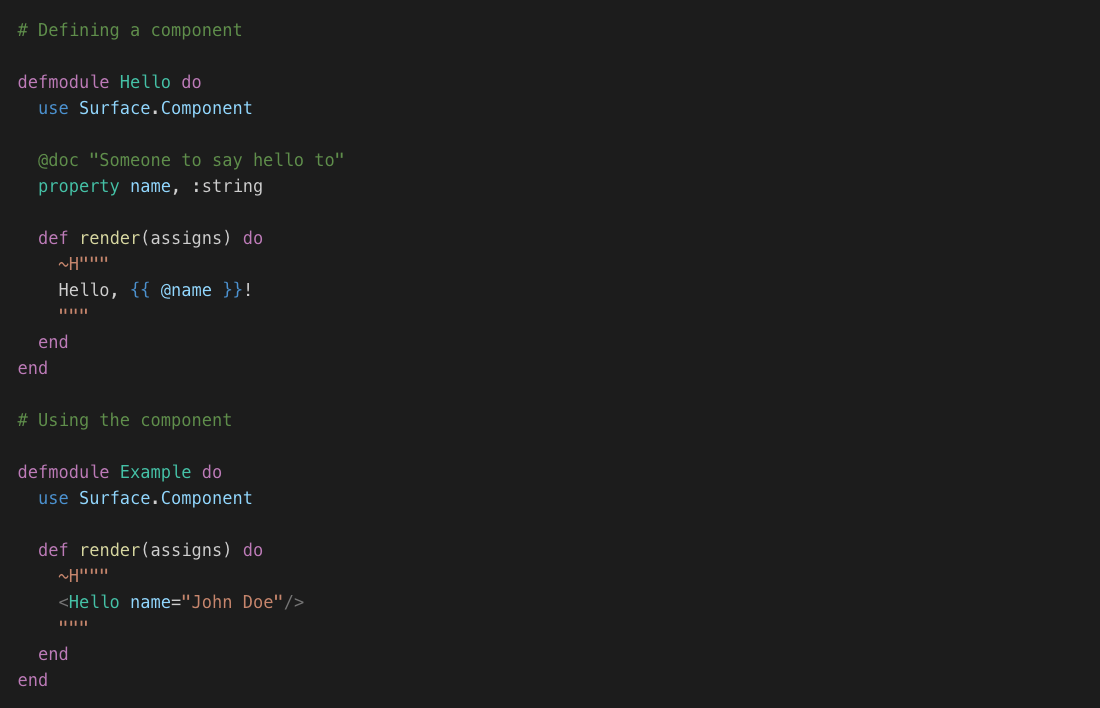
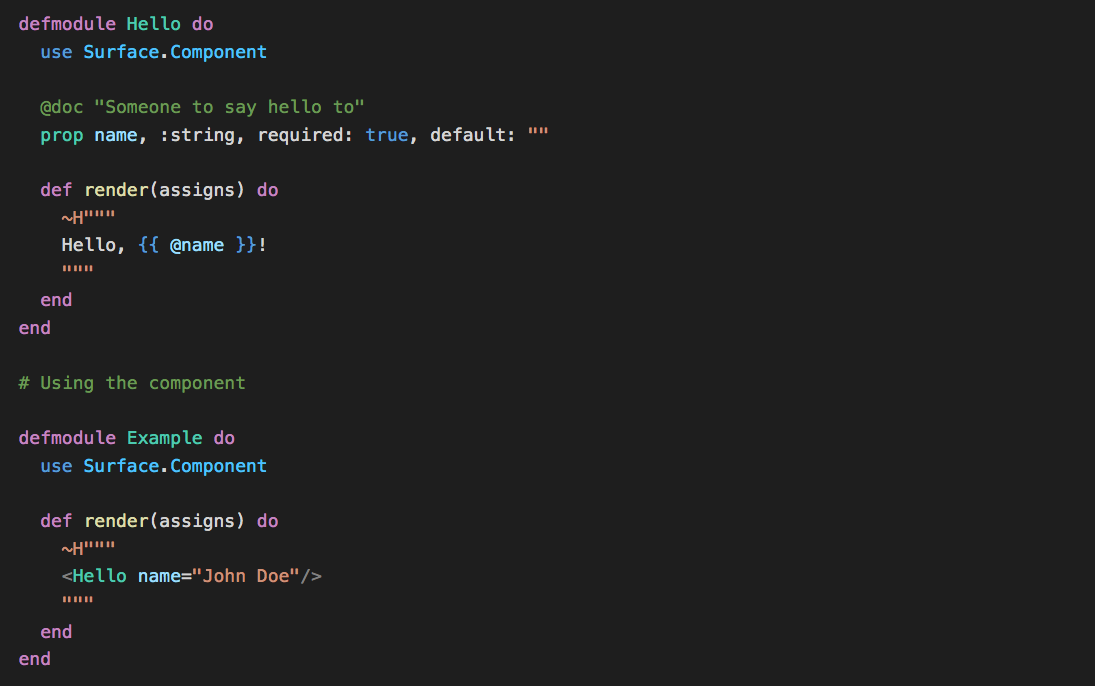
Release v0.1.0-rc.0

Changed region(s): [[0.0, 0.0306, 0.4968, 0.5204], [0.0, 0.551, 0.2795, 0.8878], [0.0, 0.9184, 0.0621, 0.9796]]

diff --git a/README.md b/README.md
@@ -1,7 +1,6 @@
 # Surface
 
 [![Build Status](https://github.com/msaraiva/surface/workflows/CI/badge.svg)](https://github.com/msaraiva/surface/actions?query=workflow%3A%22CI%22)
-[![Hex.pm version](https://img.shields.io/hexpm/v/surface.svg?style=flat)](https://hex.pm/packages/surface)
 
 Surface is a **server-side rendering** component library that allows developers to
 build **rich interactive user-interfaces**, writing minimal custom Javascript.
@@ -22,8 +21,8 @@ A VS Code extension that adds support for syntax highlighting is available at
 
 ## How does it work?
 
-At compile time, Surface translates components defined in an extended HTML-like syntax
-into regular Phoenix templates. It also translates standard HTML nodes allowing us to
+Surface's custom compiler translates components defined in an extended HTML-like syntax
+into Elixir's Abstract Syntax Tree (AST). It also translates standard HTML nodes, allowing to
 extend their behaviour adding new features like syntactic sugar on attributes definition,
 directives, static validation and more.
 
@@ -47,24 +46,32 @@ In order to have your code translated, you need to use the `~H` sigil when defin
   * **Integration with editor/tools** for warnings/errors, syntax highlighting, jump-to-definition,
     auto-completion (soon!) and more.
 
-> **Note:** Some of the features are still experimental and subject to change.
-
 ## Installation
 
-Requirements:
+Phoenix v1.5 comes with built-in support for LiveView apps. You can create a new application with:
 
-  * Install Phoenix (https://hexdocs.pm/phoenix/installation.html).
-  * Install Phoenix LiveView (https://hexdocs.pm/phoenix_live_view/installation.html)
-  * Although LiveView supports Elixir 1.7, which is [compatible](https://hexdocs.pm/elixir/compatibility-and-deprecations.html#compatibility-between-elixir-and-erlang-otp) with Erlang/OTP 19–22, [LiveView requires Erlang/OTP 21+](https://github.com/phoenixframework/phoenix_live_view/blob/7fbdcef6e46135fa111ea3fda29d5e91f9aa7b0e/lib/phoenix_live_view/application.ex#L11) and, thus, so does Surface.
+```
+mix phx.new my_app --live
+```
 
 Then add `surface` to the list of dependencies in `mix.exs`:
 
 ```elixir
 def deps do
   [
-    {:surface, "~> 0.1.0-alpha.2"}
+    {:surface, git: "https://github.com/msaraiva/surface.git", tag: "0.1.0-rc.0"}
   ]
 end
+```
+
+If you're using `mix format`, make sure you add `surface` to the `import_deps`
+configuration in your `.formatter.exs` file:
+
+```elixir
+[
+  import_deps: [:ecto, :phoenix, :surface],
+  ...
+]
 ```
 
 For further information regarding installation, including how to quickly get started

diff --git a/CHANGELOG.md b/CHANGELOG.md
@@ -1,19 +1,22 @@
 # Changelog
 
-## v0.1.0-dev
+## v0.1.0-rc.0 (2020-10-06)
 
-  * Update LiveView to v0.15-dev
-  * Make `<slot>` mandatory instead of `inner_content`
-  * Add support for co-located template files using `.sface` suffix
-  * Add `Surface.init/1` to initialize internal assigns when not using `Surface.LiveView`
-  * Add `:props` directive to pass dynamic props to a component
-  * Add `:attrs` directive to pass dynamic attributes to a tag
+  * Update LiveView to v0.15-dev (0f592a4).
+  * Make `<slot>` mandatory instead of `inner_content`.
+  * Add attribute `index` to `<slot>` to allow rendering individual named slot items.
+  * Rename macro `property` to `prop`.
+  * Rename directives `:on-phx-[event]` to `:on-[event]`.
+  * Add support for co-located template files using `.sface` suffix.
+  * Add `Surface.init/1` to initialize internal assigns when not using `Surface.LiveView`.
+  * Add `:props` directive to pass dynamic props to a component.
+  * Add `:attrs` directive to pass dynamic attributes to a tag.
   * Add new modifiers `index` and `with_index` for `:for`.
-  * Update html tag generation to remove the tag if it's value computes to nil
+  * Update html tag generation to remove the tag if it's value computes to `nil`.
   * Add support for a `transform/1` callback to allow components to manipulate its
     own node at compile-time.
   * New form controls: `<Inputs>`, `<Checkbox>`, `<Select>`, `<MultipleSelect>`,
-    `<HiddenInputs>` and `<OptionsForSelect>`.
+    `<HiddenInputs>`, `<FileInput>` and `<OptionsForSelect>`.
 
 ## v0.1.0-alpha.2 (2020-06-09)
 
